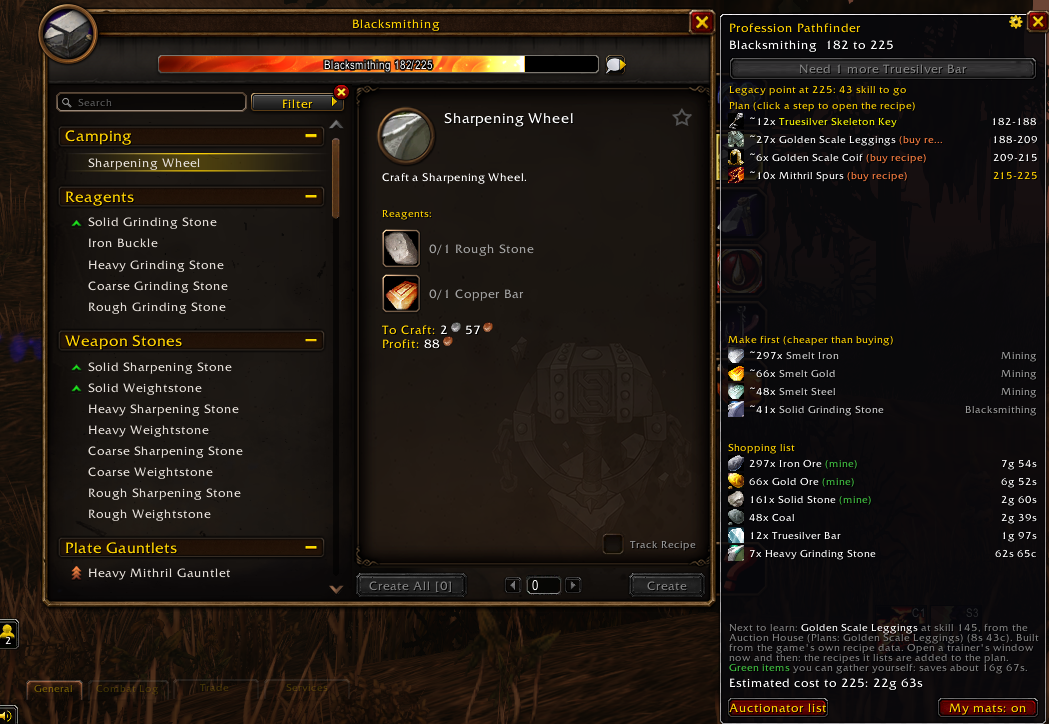
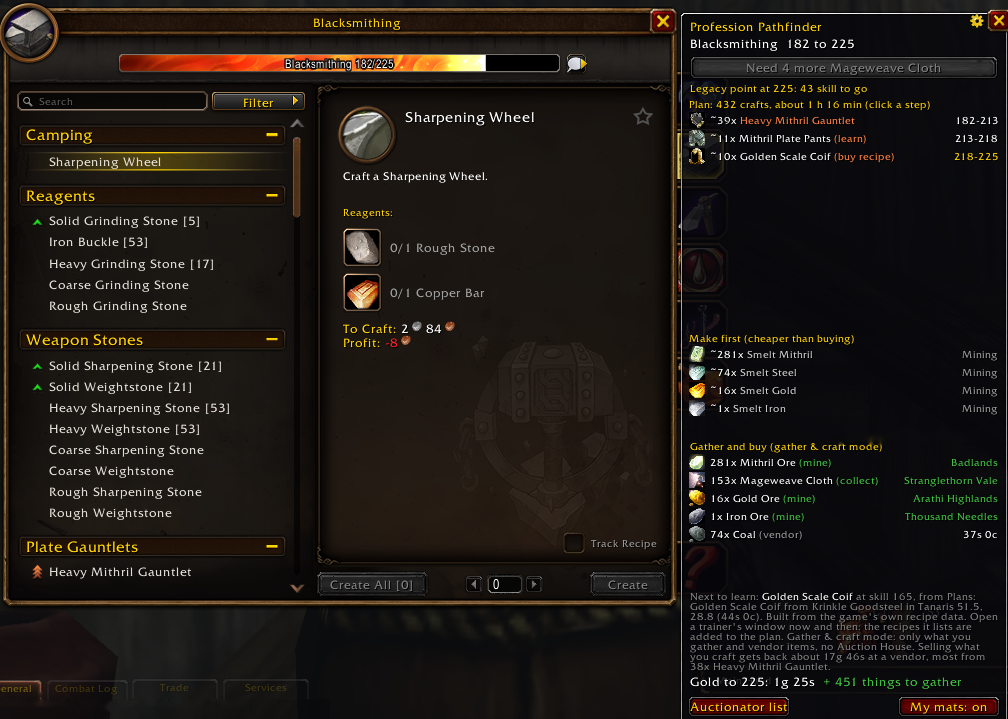
New screenshots for 1.3.0
Claude-Session: https://claude.ai/code/session_01SYKuY11AVJS4kw8rt4fSDo

diff --git a/README.md b/README.md
@@ -25,6 +25,11 @@ Download it on [CurseForge](https://www.curseforge.com/wow/addons/profession-pat
 - Fishing helper: one key to cast and loot, lure reminder, zone advice, catch log, and the fish your Cooking plan still needs.
 - Works in any game language.
 
+<p>
+<img src="docs/screenshot-tooltip.png" alt="A plan step's tooltip: what to gather or buy, and where to buy the recipe">
+<img src="docs/screenshot-options.png" width="420" alt="The options">
+</p>
+
 ## Commands
 
 | Command | What it does |
